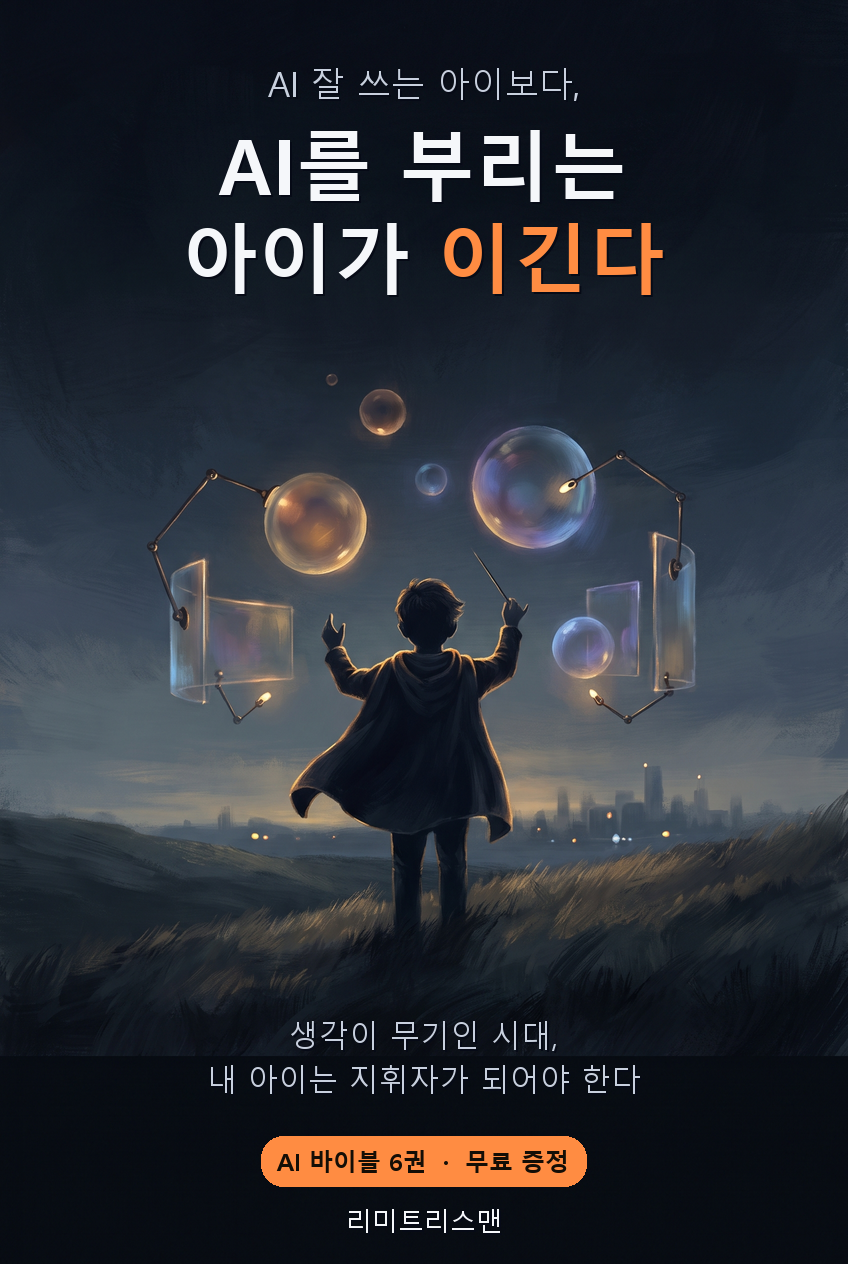
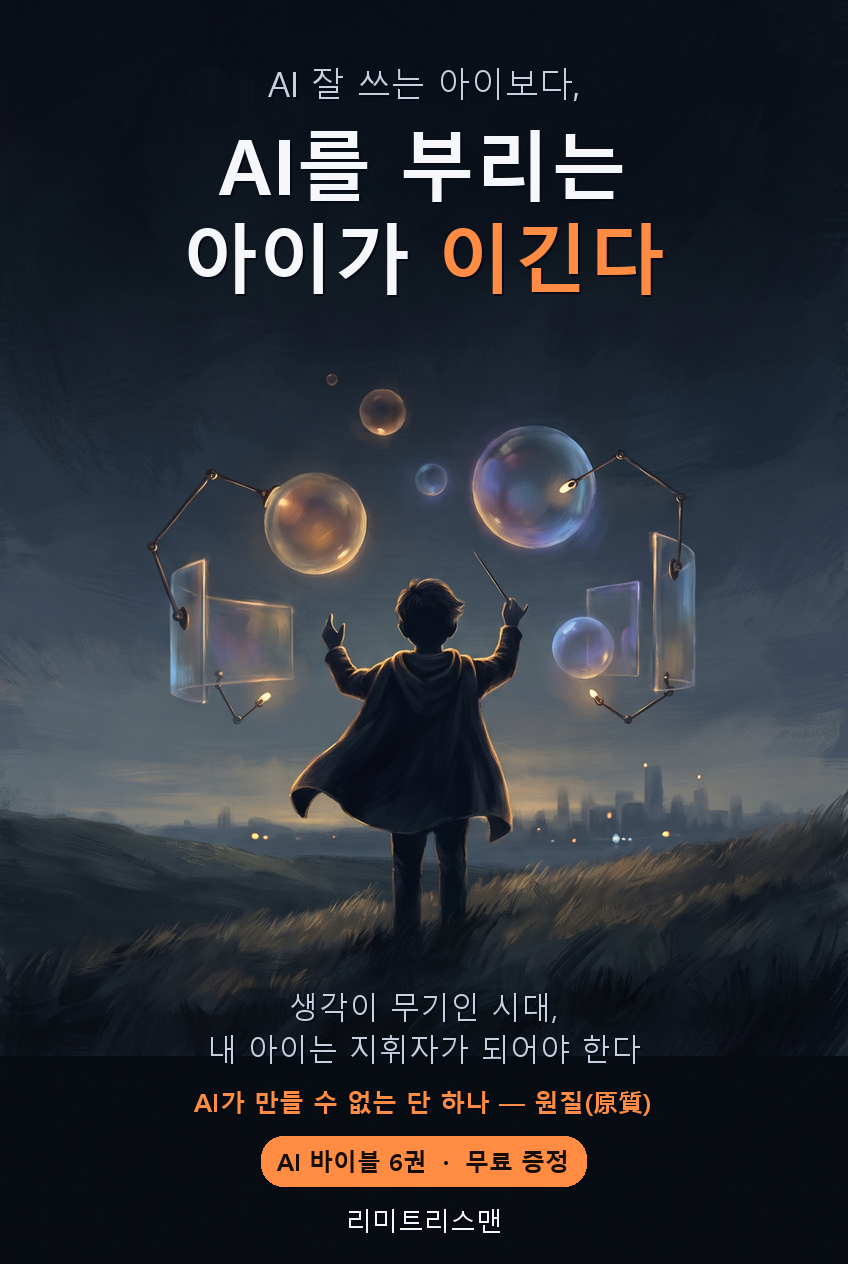
AI 바이블 6권: 시그니처 키워드 '원질(原質)' 반영 + 최태원 4근육 정확화
- 제목/부제/표지/테제에 원질(原質) 관통 키워드 심음(시황 공동 창작)
- 참고문헌 최태원 인용 정확화(4가지 근육=생각·적응·공감·바디스킬, 우리 4기둥과 일치)
- 방문자/누적 카운터 Abacus로 교체(countapi 폐기), BASE 50

Changed region(s): [[0.2146, 0.7714, 0.7665, 0.8948]]

diff --git a/parenting/index.html b/parenting/index.html
@@ -3,16 +3,16 @@
 <head>
 <meta charset="UTF-8">
 <meta name="viewport" content="width=device-width, initial-scale=1.0">
-<title>대학이 미래를 보장하지 않는 시대, AI를 부리는 아이가 이긴다 — AI 바이블 6권 (무료)</title>
-<meta name="description" content="매일 30개의 AI를 지휘하는 IT 대표 아빠의, 중학교 이하 부모를 위한 골든타임 수업">
-<meta property="og:title" content="대학이 미래를 보장하지 않는 시대, AI를 부리는 아이가 이긴다">
-<meta property="og:description" content="매일 30개의 AI를 지휘하는 IT 대표 아빠의, 중학교 이하 부모를 위한 골든타임 수업">
+<title>원질(原質), AI를 부리는 아이가 이긴다 — AI 바이블 6권 (무료)</title>
+<meta name="description" content="AI가 정련할 수 없는 단 하나, 아이의 원질 — 매일 30개의 AI를 지휘하는 IT 대표 아빠의, 중학교 이하 부모를 위한 골든타임 수업">
+<meta property="og:title" content="원질(原質), AI를 부리는 아이가 이긴다">
+<meta property="og:description" content="AI가 정련할 수 없는 단 하나, 아이의 원질 — 매일 30개의 AI를 지휘하는 IT 대표 아빠의, 중학교 이하 부모를 위한 골든타임 수업">
 <meta property="og:type" content="book">
 <meta property="og:image" content="https://aiaijungle.github.io/vibe-ebook/parenting/cover.png">
 <meta property="og:url" content="https://aiaijungle.github.io/vibe-ebook/parenting/">
 <meta name="twitter:card" content="summary_large_image">
-<meta name="twitter:title" content="대학이 미래를 보장하지 않는 시대, AI를 부리는 아이가 이긴다">
-<meta name="twitter:description" content="매일 30개의 AI를 지휘하는 IT 대표 아빠의, 중학교 이하 부모를 위한 골든타임 수업">
+<meta name="twitter:title" content="원질(原質), AI를 부리는 아이가 이긴다">
+<meta name="twitter:description" content="AI가 정련할 수 없는 단 하나, 아이의 원질 — 매일 30개의 AI를 지휘하는 IT 대표 아빠의, 중학교 이하 부모를 위한 골든타임 수업">
 <meta name="twitter:image" content="https://aiaijungle.github.io/vibe-ebook/parenting/cover.png">
 <link rel="canonical" href="https://aiaijungle.github.io/vibe-ebook/parenting/">
 <link rel="preconnect" href="https://fonts.googleapis.com">
@@ -98,7 +98,7 @@ footer a{color:var(--accent);text-decoration:none;font-weight:700;}
 <body>
 <div class="progress" id="prog"></div>
 <div class="topbar">
-  <span class="bt">대학이 미래를 보장하지 않는 시대, AI를 부리는 아이가 이긴다</span>
+  <span class="bt">원질(原質), AI를 부리는 아이가 이긴다</span>
   <button class="menu" id="menuBtn" aria-label="목차">☰</button>
 </div>
 <nav class="toc" id="toc"><a href="#sec-0"></a>
@@ -138,11 +138,15 @@ footer a{color:var(--accent);text-decoration:none;font-weight:700;}
 <div class="scrim" id="scrim"></div>
 
 <header class="cover">
-  <img class="cover-img" src="cover.png" alt="대학이 미래를 보장하지 않는 시대, AI를 부리는 아이가 이긴다">
-  <h1 class="sr-title">대학이 미래를 보장하지 않는 시대, AI를 부리는 아이가 이긴다</h1>
+  <img class="cover-img" src="cover.png" alt="원질(原質), AI를 부리는 아이가 이긴다">
+  <h1 class="sr-title">원질(原質), AI를 부리는 아이가 이긴다</h1>
   <div class="scroll-hint">아래로 스크롤하여 읽기 시작 ↓</div>
   <div class="readcount" id="readcount"></div>
 </header>
+
+<section class="dedication">
+  <p>우리 딸을 키우는 일에 누구보다 진심인 아내에게,<br>고마운 마음을 담아 이 책을 선물합니다.</p>
+</section>
 
 <section class="toc-page">
   <h2 class="toc-page-title">목차</h2>
@@ -583,7 +587,7 @@ footer a{color:var(--accent);text-decoration:none;font-weight:700;}
 <li>World Economic Forum, &quot;Future of Jobs Report 2025&quot; — 최상위 요구 역량: 분석적 사고·창의적 사고·회복탄력성·호기심과 평생학습. weforum.org</li>
 <li>Elon Musk의 Ad Astra(현 Astra Nova) 학교 — &quot;도구가 아니라 문제를 가르쳐라&quot;, &quot;지식은 의미의 나무다&quot; — Astra Nova(Wikipedia), Education Week (2024.11), Teslarati 강연 영상.</li>
 <li>Alpha School(텍사스) — AI 개인화 학습으로 하루 2시간 교과 수업, 성취도 상위 1~2% *주장(자체 발표, 독립 검증 없음)* — CBS News, Fox News.</li>
-<li>최태원 SK그룹 회장 (2026), &quot;인간과 AI가 공존하는 시스템을 설계하는 제너럴리스트&quot;, &quot;생각 근육·적응 근육·공감 근육&quot;, &quot;AI가 답을 내는 시대, 인간은 문제를 찾아야&quot; — 머니투데이·인공지능신문·뉴시스 보도.</li>
+<li>최태원 SK그룹 회장 (2026.5), &quot;인간과 AI가 공존하는 시스템을 설계하는 제너럴리스트&quot;가 필요하며 AI 시대 핵심 경쟁력으로 4가지 근육 — 생각·적응·공감·바디스킬(신체) — 을 제시. &quot;학교는 지식 전달을 넘어 AI와 공존을 실험하는 플랫폼으로.&quot; (이 네 근육은 이 책의 네 기둥 — 스스로 생각·회복탄력성·공감·건강 — 과 그대로 겹친다.) — 테크월드·머니투데이·헤럴드경제·인공지능신문 보도(2026-05-31).</li>
 <li>Gartner (2025.8 보도자료) — 2026년까지 기업 앱의 40%에 태스크 특화 AI 에이전트 탑재(2025년 5% 미만→), 2029년까지 지식노동자 50% 이상이 AI 에이전트를 다루는 기술 습득 전망. gartner.com</li>
 <li>Jensen Huang (NVIDIA), CES 기조연설 — &quot;피지컬 AI의 챗GPT 모먼트&quot; — Axios, Fortune, NVIDIA 블로그.</li>
 <li>Figure AI–BMW 스파턴버그 공장 휴머노이드 파일럿(10개월), Tesla Optimus 양산 계획 — *각 사 자체 발표 로드맵(지연 가능)*.</li>
@@ -1048,7 +1052,7 @@ function shareFB(){window.open('https://www.facebook.com/sharer/sharer.php?u='+e
 function shareX(){window.open('https://twitter.com/intent/tweet?text='+encodeURIComponent('AI 시대, 우리 아이 교육 — 무료로 읽는 책'+rv())+'&url='+encodeURIComponent(location.href),'_blank');}
 function copyLink(){copyText(location.href);toast('링크가 복사되었어요!');}
 function shareGift(){var g='「AI를 부리는 아이가 이긴다」 이 책을 선물합니다'+rv()+'. AI 시대, 우리 아이 교육을 무료로 읽어보세요 → ';var u=location.href;if(navigator.share){navigator.share({title:document.title,text:g,url:u}).then(function(){}).catch(function(){copyText(g+u);toast('선물 메시지가 복사되었어요 — 전할 분에게 붙여넣어 보내세요!');});}else{copyText(g+u);toast('선물 메시지가 복사되었어요 — 전할 분에게 붙여넣어 보내세요!');}}
-(function(){var el=document.getElementById('readcount');if(!el)return;var ns='aibible6-parenting';var t=new Date().toISOString().slice(0,10).replace(/-/g,'');function g(k){return fetch('https://api.countapi.xyz/hit/'+ns+'/'+k).then(function(r){return r.json();}).catch(function(){return null;});}Promise.all([g('total'),g('d'+t)]).then(function(res){var tot=res[0]&&res[0].value,day=res[1]&&res[1].value;if(typeof tot==='number'){var s='';if(typeof day==='number')s+='오늘 <b>'+day.toLocaleString()+'</b>명 · ';s+='누적 <b>'+tot.toLocaleString()+'</b>명의 부모가 함께 읽었어요';el.innerHTML='📖 '+s;el.style.display='block';}}).catch(function(){});})();
+(function(){var el=document.getElementById('readcount');if(!el)return;var BASE=50;var ns='aibible6parenting';var t=new Date().toISOString().slice(0,10).replace(/-/g,'');function g(k){return fetch('https://abacus.jasoncameron.dev/hit/'+ns+'/'+k).then(function(r){return r.json();}).catch(function(){return null;});}function show(raw,day){var tot=BASE+(typeof raw==='number'?raw:0);var s='';if(typeof day==='number'&&day>0)s+='오늘 <b>'+day.toLocaleString()+'</b>명 · ';s+='누적 <b>'+tot.toLocaleString()+'</b>명의 부모가 함께 읽었어요';el.innerHTML='📖 '+s;el.style.display='block';}Promise.all([g('total'),g('d'+t)]).then(function(res){show(res[0]&&res[0].value,res[1]&&res[1].value);}).catch(function(){show(0,null);});})();
 render();
 </script>
 
